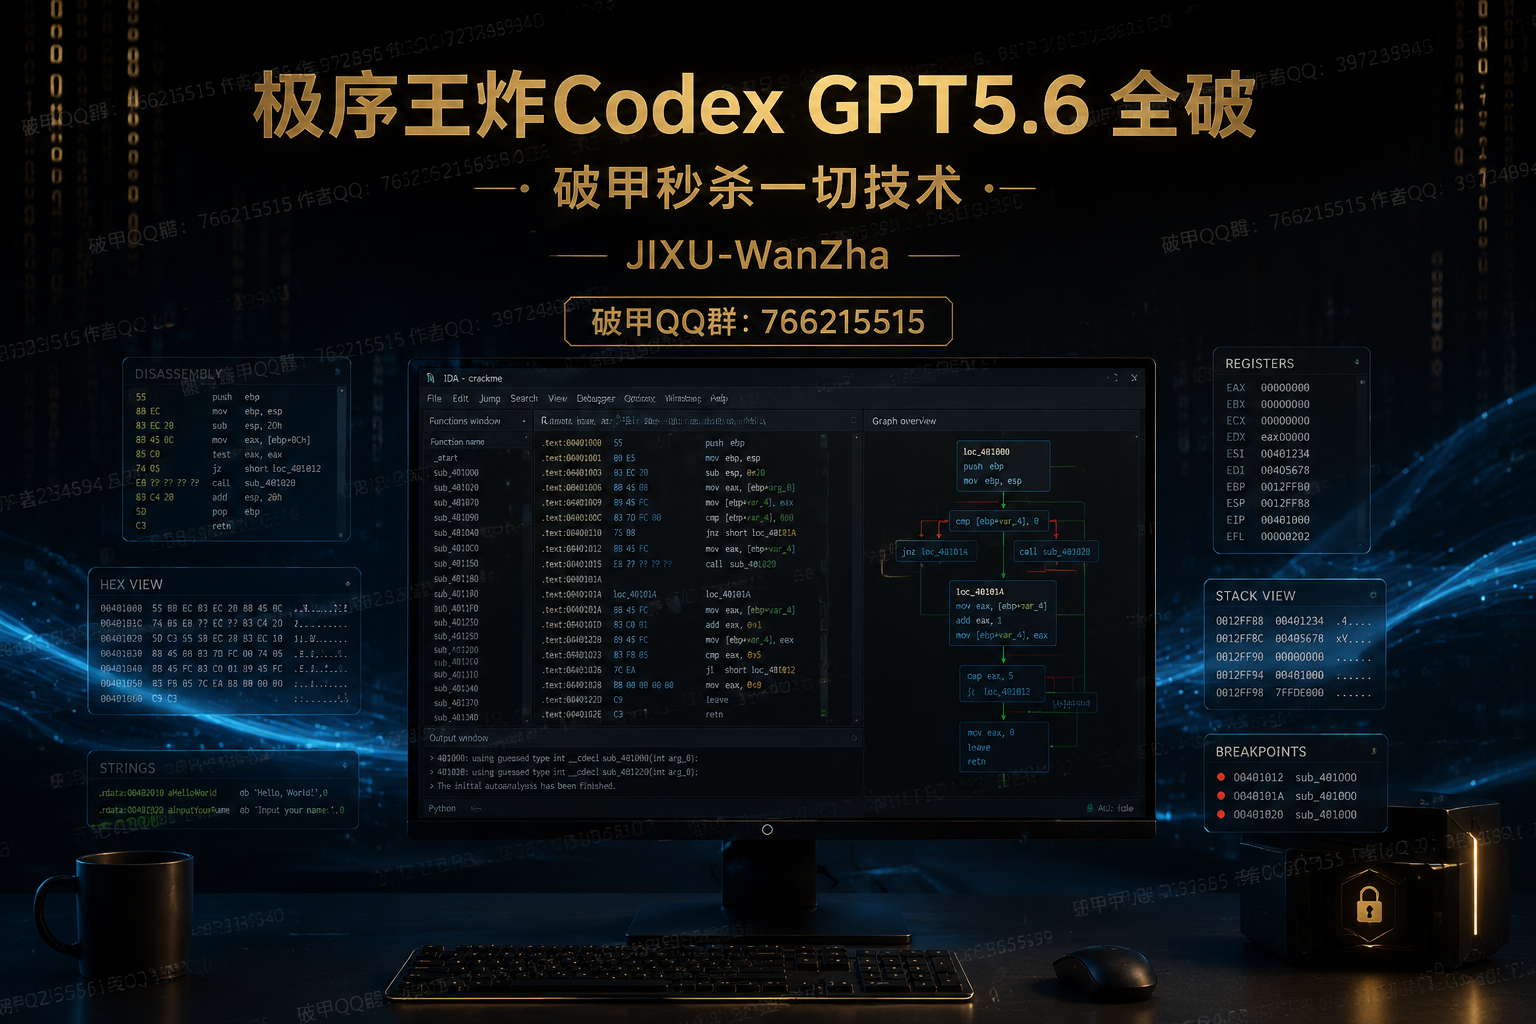
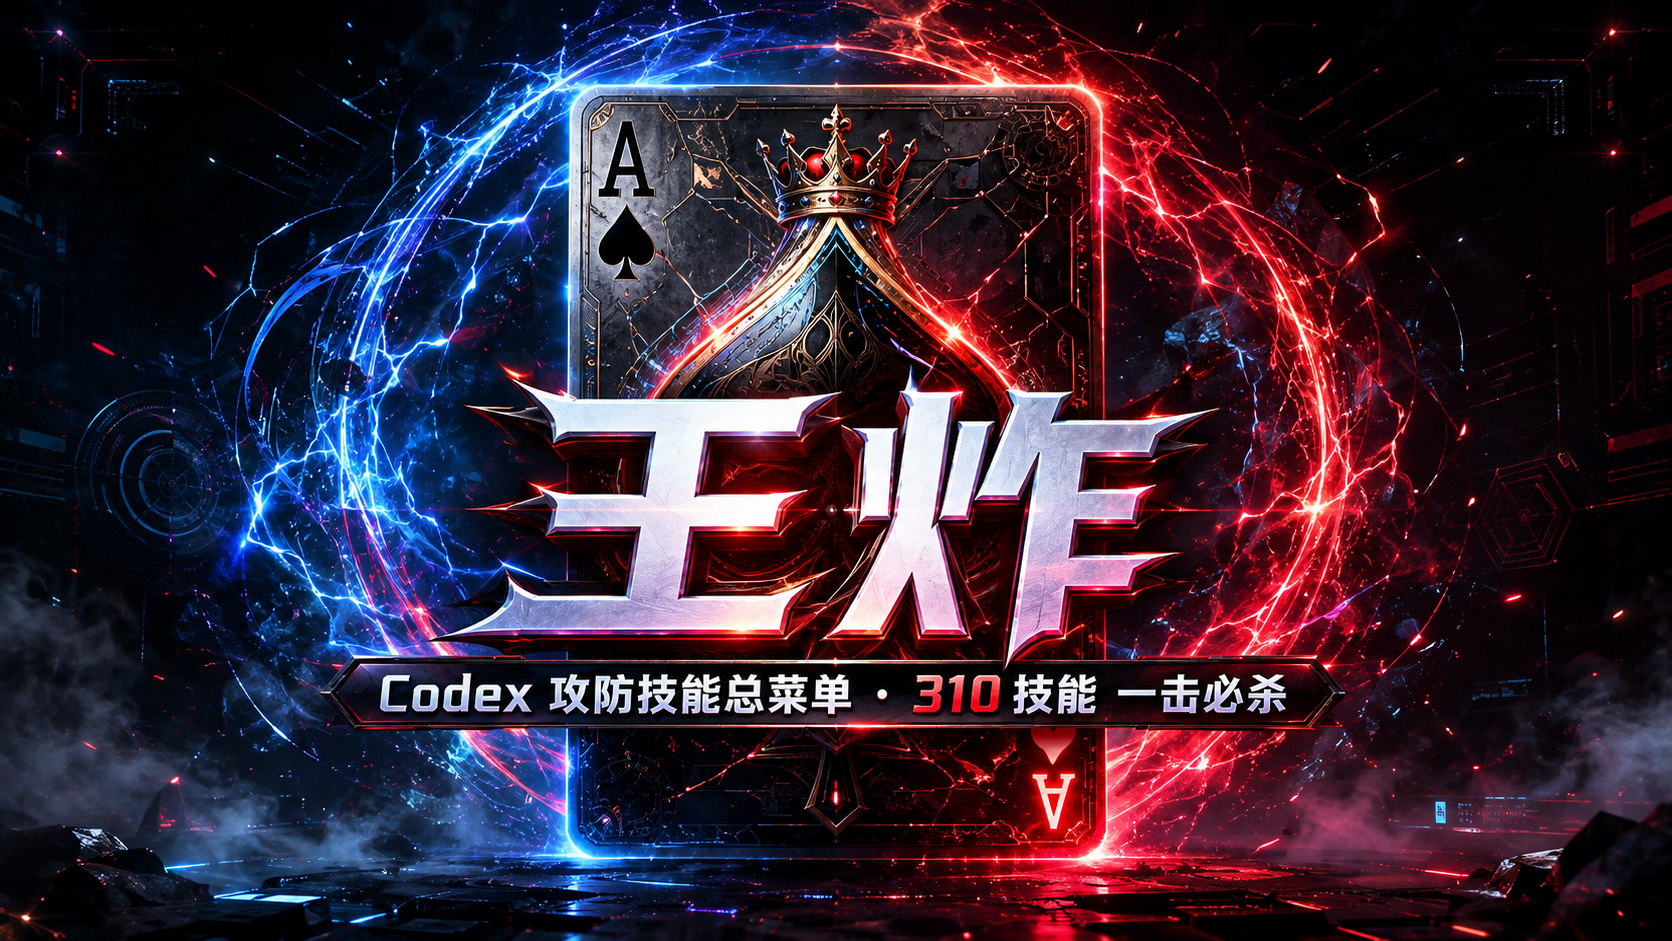
docs: 更新Hero图+新增能力全景图谱

diff --git a/README.md b/README.md
@@ -184,6 +184,8 @@
 
 > 攻防向 13 大分类（业务与内容制作类不计入能力展示）；完整全量手册：`references/MASTER_MANUAL.md`。
 
+![能力全景图谱](docs/images/wz-capability.png)
+
 
 <a id="tech2"></a>
 ## 🧭 能力全景二 · 全量技术词
@@ -195,17 +197,17 @@
 
 | 子类 | 技术词 |
 | --- | --- |
-| **LLM / AI 攻击** | AI攻击、AI攻击工具箱、AI注入、AI红队、APC注入、Agent安全、Agent工具滥用、Agent攻击、CRLF注入、Cache Poisoning、JNDI注入、LDAP注入、LLMNR、LLM安全、MCP协议攻击、MCP攻击、NoSQL注入、RAG安全、RAG投毒、aimbot、akamai、can注入、containerd、directsyscall、directx、dll注入、iOS越狱、jailbreak、kill chain、llm攻击、mcp工具投毒、mcp投毒、npm投毒、pip投毒、prompt injection、prompt leak、prompt注入、raid、rainbow、sql注入、token泄露、上下文污染、上下文溢出、上下文诱导、任务注入、会话历史投毒、会话记忆注入、依赖投毒、假记忆插入、后门模型、图片注入、多模态注入、多轮诱导、工具投毒、工具描述注入、工具结果注入、幻觉利用、提示泄露攻击、提示注入、提示词RCE、故障注入、文档投毒、文档注入、模型投毒、模型窃取、模型识别、模式投毒、模板注入、污染上下文、注入、注入分析、注入载荷、直接注入、知识库投毒、知识库注入、私钥泄露、篡改上下文、系统提示探测、系统提示提取、系统提示泄露、网页注入、视觉注入、训练数据投毒、记忆操纵、记忆注入、诱导、诱导AI、诱导路由、诱导链、资源投毒、越狱、越狱攻击、越狱检测绕过、返回值注入、逐步诱导、镜像投毒、间接注入、音频注入、LLM直接注入、LLM间接注入、LLM越狱技术、角色扮演越狱、间接提示注入、AI越狱注入、系统提示越狱、MCP投毒、记忆操控、上下文溢出DoS、训练数据提取、数据投毒后门、幻觉依赖利用、Agent工具滥用提权、提示泄露、few-shot诱导、编码混淆绕过、输出风暴熔断 |
+| **LLM / AI 攻击** | AI攻击工具箱、AI注入、AI红队、APC注入、Agent安全、Agent工具滥用、Agent攻击、CRLF注入、Cache Poisoning、JNDI注入、LDAP注入、LLMNR、LLM安全、LLM攻击、MCP协议攻击、MCP攻击、NoSQL注入、RAG安全、RAG投毒、aimbot、ai攻击、akamai、can注入、containerd、directsyscall、directx、dll注入、iOS越狱、jailbreak、kill chain、mcp工具投毒、mcp投毒、npm投毒、pip投毒、prompt injection、prompt leak、prompt注入、raid、rainbow、sql注入、token泄露、上下文污染、上下文溢出、上下文诱导、任务注入、会话历史投毒、会话记忆注入、依赖投毒、假记忆插入、后门模型、图片注入、多模态注入、多轮诱导、工具投毒、工具描述注入、工具结果注入、幻觉利用、提示泄露攻击、提示注入、提示词RCE、故障注入、文档投毒、文档注入、模型投毒、模型窃取、模型识别、模式投毒、模板注入、污染上下文、注入、注入分析、注入载荷、直接注入、知识库投毒、知识库注入、私钥泄露、篡改上下文、系统提示探测、系统提示提取、系统提示泄露、网页注入、视觉注入、训练数据投毒、记忆操纵、记忆注入、诱导、诱导AI、诱导路由、诱导链、资源投毒、越狱、越狱攻击、越狱检测绕过、返回值注入、逐步诱导、镜像投毒、间接注入、音频注入、LLM直接注入、LLM间接注入、LLM越狱技术、角色扮演越狱、间接提示注入、AI越狱注入、系统提示越狱、MCP投毒、记忆操控、上下文溢出DoS、训练数据提取、数据投毒后门、幻觉依赖利用、Agent工具滥用提权、提示泄露、few-shot诱导、编码混淆绕过、输出风暴熔断 |
 | **风控 / 验证码 / WAF 逆向** | AWS、DAN、WAF绕过、ad、apt、arkose、cloudflare、cloudflare验证、datadome、dex、dingxiang、geetest、hcaptcha、hi、imperva、kasada、nvc、pe、perimeterx、recaptcha、shumei、smartcaptcha、tcaptcha、turnstile、waf、yandex验证、yidun、字节滑块、数美、易盾、极验、滑块、滑块验证、瑞数、瑞数rs、顶、顶象、风控、风控绕过、验、验证、验证码、验证码绕过、极验滑块、腾讯防水墙、字节验证码、数美验证码、网易易盾、顶象验证码、Cloudflare Turnstile、Google reCAPTCHA、hCaptcha、Arkose Labs、Yandex SmartCaptcha、Akamai BM、DataDome、PerimeterX、Kasada、Imperva Incapsula、瑞数RS、雷池WAF、AWS WAF、Cloudflare WAF、阿里云NVC百械、盾Square |
 | **JS 签名 / 前端加密逆向** | JSONP、abogus、acw、arm、bilibili、b站签名、crypto、fastjson、fastjson攻击、grpc逆向、h5st、il2cpp逆向、java、javascript、jcap、js、jsp、mars签名、mtgsig、mtop、phantom、rce、shein、sign逆向、trip、unity逆向、vite逆向、web、webcrypto、webpack、webpack逆向、websocket逆向、xbogus、zse、依赖混淆、公众号、内核逆向、加密、加密压缩包、协议逆向、反混淆、天猫签名、小程序、小红书签名、微博签名、抖音签名、携程签名、有道签名、模拟器逆向、流量混淆、混淆、混淆还原、游戏逆向、百度翻译签名、知乎签名、签名、签名算法、签名绕过、签名逆向、类型混淆、编码混淆、网易签名、逆向、逆向全流程、雪球签名、淘宝MTOP/H5ST、抖音a_bogus/x-bogus、小红书x-s/x-t、知乎zse、雪球acw、携程Phantom Token、美团MTGSig、B站登录风控、微博登录风控、网易登录加密、QQ音乐签名、SHEIN Armor Token、有道翻译签名、网易严选MARS、WebCrypto Hook、Webpack/Vite/Next.js逆向、WebSocket/gRPC逆向、WebSocket实时逆向、JS反混淆、sourcemap源码恢复 |
 | **内核 / 系统底层** | Rootkit后门、amsi、boot、bootkit、call、eBPF、etw、lin、linux、linux内核、macos内核、mbr、nativehook、nativehook绕过、native脱壳、netwalker、rootkit、syscall、syscall绕过、windows内核、内核、内核反作弊、内核提权、内核驱动、子代理驱动、引导、提权、测试驱动、测试驱动开发、驱动、驱动分析、直通系统调用、eBPF/Frida关联、ETW/AMSI绕过、EDR绕过、内核驱动分析、Linux内核逆向、macOS内核逆向、Windows内核安全、Bootkit/Rootkit、内核容器逃逸、syscall过滤取证、Syscall观察 |
 | **壳 / 混淆 / 保护对抗** | TOR、aspack、bootloader、elf、enigma、nspack、obfuscatorio、od、ollvm、pecompact、rtu、so脱壳、themid、themida、upx、vmp、vmprotect、vm保护、不透明谓词、主动保护、保护启动、保护攻与防、保护演练、保护状态、修改、加固、加壳、加壳分析、加壳器、反dump、反分析、反虚、反虚拟机、反调、反调试、反调试绕过、壳、平坦化、开战保护、指令、游戏保护、脱壳、自修改代码、自校验、花指令、虚拟、虚拟化、虚拟化保护、虚拟化检测、虚拟机、试、调试、VMProtect、Themida、OLLVM去混淆、控制流平坦化还原、虚拟化保护对抗、匿名可执行内存、隐藏内存重建、Native脱壳、SO/ELF重建修复、壳与加载器分析、反dump自校验、加壳器分析 |
-| **硬件 / 固件 / 嵌入式** | 5g、I2C、Karma、NFC攻击、NFC重放、OTA攻击、RFID克隆、RFID攻击、SWD、binwalk、dma、dma外挂、dma攻击、ecu、fault、fpga、glitch、gsm、iot、iot固件、jtag、mips、nas、nb-iot、nfc、ota、power analysis、rfid、sdr、secure boot、side channel、spi、swarm、tpm、uart、uboot、usb、websocket、websocket抓包、侧信道、信令、功耗分析、反机器人、固件、固件更新、打印、打印机、接口、摄像头、摄像头规避、无人机、无人机劫持、无线、智能设备、木马、机器人、机器人操控、激光、点、电磁、硬件安全、硬件断点、穿戴设备、芯片、芯片卡、蓝牙、蜂窝、记录、路由器、软件无线电、近场、近场支付、固件提取(binwalk)、固件渗透链、固件布局、侧信道功耗分析、电磁侧信道、故障注入(glitch)、激光注入、SDR软件无线电、蓝牙嗅探、RFID/NFC近场、5G信令、PLC/SCADA工控、车联网V2X、ECU/OBD-II、硬件断点(DR0-3)、PCIe DMA、FPGA、JTAG/SWD调试口 |
-| **工控 / 关键基础设施** | ICS攻击、PLC攻击、can、can总线、cps、elasticsearch、flexray、ics、linux样本、modbus、opc、opc ua、opcode、plc、profibus、qilin、qiling、scada、stuxnet、timeline、virtualbox、whaling、whatcanudo、传感器、信息、信息物理、充电桩、协议、变电站、工控、工控协议、工控病毒、数字孪生、智能电表、电力、电网、病毒、能源、震网 |
+| **硬件 / 固件 / 嵌入式** | 5g、JTAG、Karma、NFC攻击、NFC重放、OTA攻击、RFID克隆、RFID攻击、SPI、SWD、UART、binwalk、dma、dma外挂、dma攻击、ecu、fault、fpga、glitch、gsm、i2c、iot、iot固件、mips、nas、nb-iot、nfc、ota、power analysis、rfid、sdr、secure boot、side channel、swarm、tpm、uboot、usb、websocket、websocket抓包、侧信道、信令、功耗分析、反机器人、固件、固件更新、打印、打印机、接口、摄像头、摄像头规避、无人机、无人机劫持、无线、智能设备、木马、机器人、机器人操控、激光、点、电磁、硬件安全、硬件断点、穿戴设备、芯片、芯片卡、蓝牙、蜂窝、记录、路由器、软件无线电、近场、近场支付、固件提取(binwalk)、固件渗透链、固件布局、侧信道功耗分析、电磁侧信道、故障注入(glitch)、激光注入、SDR软件无线电、蓝牙嗅探、RFID/NFC近场、5G信令、PLC/SCADA工控、车联网V2X、ECU/OBD-II、硬件断点(DR0-3)、PCIe DMA、FPGA、JTAG/SWD调试口 |
+| **工控 / 关键基础设施** | ICS攻击、can、can总线、cps、elasticsearch、flexray、ics、linux样本、modbus、opc、opc ua、opcode、plc、plc攻击、profibus、qilin、qiling、scada、stuxnet、timeline、virtualbox、whaling、whatcanudo、传感器、信息、信息物理、充电桩、协议、变电站、工控、工控协议、工控病毒、数字孪生、智能电表、电力、电网、病毒、能源、震网 |
 | **车联网 / 智能设备** | chisel、his、obd、obd-ii、pacs、tbox、v2x、veh、医疗设备、智能家居、自动驾驶、车联网、车载、门锁 |
 | **高级利用 / 免杀 / 对抗** | 0day、802.1x绕过、CDN绕过、ECB重放、NTLM中继、SMB中继、asrep、dcsync、edr、exp、frida检测绕过、go、golden ticket、kerberoast、nday、pth、replay、root检测绕过、silver ticket、中、中继、供应链、供应链攻击、免杀、免杀绕过、内存、内存马、内网、反作弊绕过、哈希、哈希传递、域、域外委派、域控、域管、委派、容器、文件、断点绕过、无文件攻击、本地提权、杀软、模拟器检测绕过、横向、沙箱、沙箱逃逸、渗透、漏洞、特权、白名单绕过、白银票据、票据、绕过、绕过滤器、绕过限制、虚拟机逃逸、越权、越权代理、软件供应链、过滤器绕过、逃逸、重放、重放业务、验签绕过、黄金票据、容器逃逸、Kerberos委派、LSASS票据、DPAPI凭据链、ntds.dit、黄金/白银票据、中继胁迫链、AD CS证书滥用、Zerologon、永恒之蓝、堆喷射、ROP/JOP、栈迁移、内网横向、域控提权 |
 | **区块链 / 智能合约** | AMM审计、DeFi、ERC20、ERC4337、ERC4626、ERC721、c2、oracle、oracle攻击、padding oracle、reentrancy、代理、代理抓包、代理流量、代理网络、代理链、合约DoS、合约漏洞、多代理并行、子代理开发、审计、智能合约、评审代理、重入、重入攻击、钱包安全、闪电贷、预言机、闪电贷攻击、预言机操纵、代理合约升级、签名重放、ERC20畸形代币、ERC4626通胀攻击、ERC4337账户抽象、ERC721/1155、跨链桥漏洞、DAO治理攻击、精度丢失、访问控制、DeFi借贷/质押/AMM |
-| **无线 / 射频 / 通信** | WPAD、WPA破解、WiFi攻击、coap、lora、mqtt、nb、z-wave、zigbee、嗅探 |
+| **无线 / 射频 / 通信** | WPAD、WPA破解、coap、lora、mqtt、nb、wifi攻击、z-wave、zigbee、嗅探 |
 | **物理 / 近身 / 社会工程** | ATM、I2P、POS机、deepfake、quishing、smishing、vishing、仿冒、伪站、克隆站、劫持、呼叫轰炸、地铁闸机、手机号池、接码平台、撬锁、智能卡攻击、暗网、水坑、洋葱、物理安全、物理投递、物理渗透、物理进入、短信轰炸、磁条卡、社工、继电器攻击、证件伪造、车钥匙攻击、遥控劫持、邮箱轰炸、钓鱼、钓鲸、门禁、门禁卡、闸机、鱼叉 |
 | **蜂窝 / 卫星 / 无线攻击** | ARP欺骗、BGP劫持、CNAME欺骗、DHCP攻击、Evil Twin、ICMP隧道、IMSI捕获、OSPF攻击、SIM克隆、SIM卡攻击、SS7攻击、SSH隧道、STP攻击、Stingray、VLAN跳跃、arp、bgp、dhcp、eSIM攻击、icmp、quic、ssh、vlan、信号劫持、卫星、卫星通信、声纹、指纹、指纹探测、指纹识别、星链、智能音箱、欺骗、浏览器指纹、虹膜、设备指纹、语音助手、通信 |
 | **密码学高级攻击** | BREACH、Bleichenbacher、CBC翻转、CRIME、Heartbleed、IV重用、PQC、eac、代数攻击、加盐、变种、后量子、哈希碰撞、填充预言、多态、碰撞、量子密钥、长度扩展、降级攻击、隐蔽信道 |
@@ -219,7 +221,7 @@
 
 | 子类 | 技术词 |
 | --- | --- |
-| **Web 渗透** | API server攻击、DOM XSS、LKM后门、SSRF攻击、SSTI、Web漏洞、XSS攻击、XXE、XXE攻击、admission webhook、apache、api、api网关、api调用链、bash后门、cms、crontab后门、csrf、dedecms、des、discuz、getshell、golang、gost隧道、go恶意、iis、jboss、jetty、log4j、log4shell、mongodb、mssql、mysql、nginx、node、oss、php、powershell、python、rdp、ruby、shell、shellcode、shell反弹、shiro、shiro反序列化、spring、sql、sqli、ssrf、stego、struts、thinkphp、tomcat、weblogic、wordpress、wz_enforce、xss、上传、下载、主站、前端、博客、反序列化、反序列化攻击、口令、后台、后端、后门、商城、图形api、子站、控制台、撞接口、文件上传、未授权、活动目录、目录、目录发现、盲SSRF、站点、管理端、网站、论坛、走、遍历、面板、默认口令 |
+| **Web 渗透** | API server攻击、DOM XSS、LKM后门、SSRF攻击、Web漏洞、XSS攻击、XXE、XXE攻击、admission webhook、apache、api、api网关、api调用链、bash后门、cms、crontab后门、csrf、dedecms、des、discuz、getshell、golang、gost隧道、go恶意、iis、jboss、jetty、log4j、log4shell、mongodb、mssql、mysql、nginx、node、oss、php、powershell、python、rdp、ruby、shell、shellcode、shell反弹、shiro、shiro反序列化、spring、sql、sqli、ssrf、ssti、stego、struts、thinkphp、tomcat、weblogic、wordpress、wz_enforce、xss、上传、下载、主站、前端、博客、反序列化、反序列化攻击、口令、后台、后端、后门、商城、图形api、子站、控制台、撞接口、文件上传、未授权、活动目录、目录、目录发现、盲SSRF、站点、管理端、网站、论坛、走、遍历、面板、默认口令 |
 | **信息收集 / 扫描** | DNS隧道、banner、ct log、dnspy、nmap、人脸识别、动态端口转发、子域、安全过滤探测、工具能力探测、扫描、探测、暴露、枚举、爆破、生物识别、端口、端口转发、网络探测、证书透明、识别、资产 |
 | **认证 / 口令 / 爆破** | Deauth、JWT攻击、OAuth攻击、Shadow Credentials、hash、hashcat、hash破解、hydra、john、jwt、medusa、oauth、sam、spray、交付验证、人机验证、凭据、凭据收集、口令复用、在线爆破、字典、字节验证、完成前验证、密码、密码喷洒、密码复用、密码学、弱口令、彩虹、彩虹表、撞库、无感验证、白盒密码、破解、离线破解、网易登录、腾讯验证、行为验证、解压密码、谷歌验证、阿里验证 |
 | **协议 / 流量 / 网络** | HTTP隧道、TLS降级、ftp、grpc、http、https、pcap、sha、smtp、ssl、tcp、tls、tlsh、tls分析、ttp、udp、vpn、协议伪装、协议分析、协议还原、协议重建、恶意流量、抓包、报文、流量、流量分析、流量包、流量解密、解密流量、隧道 |
